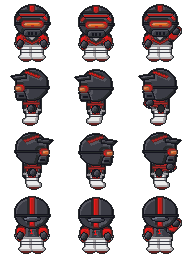
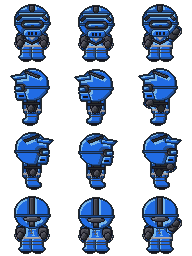
Truck arrow after buying it, Neal in blue and black, and the HUD buttons in a row along the bottom
Boss (28 Oct 2026):
- After buying the van the markers point to it until the rider gets in, then on to the house and
  the spares chest (story.json markVan).
- Neal Gizard's kit is blue with black, on his map sprite and as his race kit (riders.json kit).
- The world screen's buttons are smaller and in one row along the bottom right, clear of east
  exits on phones. The camera can run a button row's height past a map's bottom edge, so a
  south exit is never under them.

Claude-Session: https://claude.ai/code/session_01NrCmSYmMqQM4A6rXkzAnwk

Changed region(s): [[0.7188, 0.0, 0.9375, 1.0], [0.0625, 0.0, 0.2812, 1.0], [0.375, 0.0, 0.625, 1.0]]

diff --git a/src/scenes/WorldScene.ts b/src/scenes/WorldScene.ts
@@ -1,5 +1,5 @@
 import Phaser from 'phaser';
-import { advanceStory, bikeProblem, fillText, formatMoney, jobPay, matchStory, pence, type JobDef, type StoryEvent, type StoryStep } from '../core/career';
+import { advanceStory, bikeProblem, currentStep, fillText, formatMoney, jobPay, matchStory, pence, type JobDef, type StoryEvent, type StoryStep } from '../core/career';
 import { npcsOnMap, type DialogueLine, type NpcDef, type NpcPlacement } from '../core/content';
 import { Grid, STEPS } from '../core/grid';
 import { objectTiles, type BakedMap, type Facing, type MapObject, type Tile } from '../core/mapTypes';
@@ -25,7 +25,7 @@ import { Character, TILE } from '../world/Character';
 import { MapView, OVERHEAD_DEPTH, isMapCached, loadMapImages } from '../world/MapView';
 import { actionMessage, actionName } from '../world/messages';
 import { Waymarks, clusters, middle, type Mark } from '../world/Waymarks';
-import { DPR } from '../ui/view';
+import { DPR, HUD_BAR } from '../ui/view';
 import { standLift } from '../world/standLift';
 import { VanView, type Driver } from '../world/VanView';
 import type { HudScene } from './HudScene';
@@ -287,9 +287,12 @@ export class WorldScene extends Phaser.Scene {
     const mh = this.map.height * TILE;
     const vw = width / zoom;
     const vh = height / zoom;
+    // Past the bottom edge, room for the HUD's button row: dark runoff the camera can show as the
+    // rider heads south, so a south exit is never under the buttons (Boss, 28 Oct 2026).
+    const run = (HUD_BAR * DPR) / zoom;
     const bx = mw < vw ? (mw - vw) / 2 : 0;
-    const by = mh < vh ? (mh - vh) / 2 : 0;
-    cam.setBounds(bx, by, Math.max(mw, vw), Math.max(mh, vh));
+    const by = mh + run < vh ? (mh + run - vh) / 2 : 0;
+    cam.setBounds(bx, by, Math.max(mw, vw), Math.max(mh + run, vh));
   }
 
   // ---- clicks and interaction ----
@@ -607,7 +610,7 @@ export class WorldScene extends Phaser.Scene {
     this.markPoint = null;
     const career = this.save.career;
     this.markEarning = earning(services.content, career);
-    const goals = storyGoals(services.content, services.maps, career);
+    const goals = storyGoals(services.content, services.maps, career, this.save.flags, this.save.van ?? null);
     if (!goals.length) return;
     const ts = this.map.tileSize;
     const nearest = <P extends { x: number; y: number }>(points: P[]) => {
@@ -617,9 +620,15 @@ export class WorldScene extends Phaser.Scene {
     const marks: Mark[] = [];
     const points: { x: number; y: number; label: string; sub?: string }[] = [];
     const here = goals.filter((g) => g.map === this.map.id);
+    const nameOf = (goal: (typeof goals)[number]) => (goal.kind === 'npc' ? goal.name : goal.kind === 'van' ? (this.van?.design.name ?? 'Your van') : actionName(goal.action));
     for (const goal of here) {
-      const what = goal.kind === 'npc' ? goal.name : actionName(goal.action);
-      if (goal.kind === 'npc') {
+      const what = nameOf(goal);
+      if (goal.kind === 'van') {
+        if (!this.van) continue;
+        const tiles = footprint(this.van.pose, this.van.design.length);
+        marks.push({ kind: 'object', tiles });
+        points.push({ ...middle(tiles), label: what });
+      } else if (goal.kind === 'npc') {
         const n = this.npcs.find((c) => c.placement.npc.id === goal.npc);
         if (!n) continue;
         const { x, y } = n.character.sprite;
@@ -636,7 +645,7 @@ export class WorldScene extends Phaser.Scene {
       // 2026: one road to the Industrial Zone, then both work buildings' doors).
       const seen = new Set<MapObject>();
       for (const goal of goals) {
-        const what = goal.kind === 'npc' ? goal.name : actionName(goal.action);
+        const what = nameOf(goal);
         const hop = nextHop(services.maps, services.content.world, services.travel, this.save.flags, this.map.id, goal.map);
         if (!hop || hop.via.every((o) => seen.has(o))) continue;
         for (const o of hop.via) seen.add(o);
@@ -683,9 +692,9 @@ export class WorldScene extends Phaser.Scene {
     const dx = p.x - v.centerX;
     const dy = p.y - v.centerY;
     const left = 56;
-    const right = w - 120;
+    const right = w - 56;
     const top = 150;
-    const bottom = h - 64;
+    const bottom = h - HUD_BAR - 40;
     const cx = w / 2;
     const cy = h / 2;
     const tx = dx > 0 ? (right - cx) / dx : dx < 0 ? (left - cx) / dx : Infinity;
@@ -1132,6 +1141,11 @@ export class WorldScene extends Phaser.Scene {
     this.save.driving = true;
     this.player.stopWalking();
     this.sitInVan();
+    const step = currentStep(services.content.story, this.save.career);
+    if (step?.markVan && !this.save.flags[step.markVan]) {
+      this.save.flags[step.markVan] = true;
+      this.refreshWaymarks();
+    }
     this.quickSave();
   }
 

diff --git a/src/scenes/HudScene.ts b/src/scenes/HudScene.ts
@@ -28,7 +28,7 @@ import { COLORS, hex, textStyle } from '../ui/theme';
 import { ZOOM_MAX, ZOOM_MIN, ZOOM_STEP } from '../core/settings';
 import { button, panel, slider, statBar } from '../ui/widgets';
 import type { WorldScene } from './WorldScene';
-import { cssSize, view } from '../ui/view';
+import { HUD_BAR, cssSize, view } from '../ui/view';
 import { worldMapTexture, type WorldMapData, type WorldMapZone } from '../core/worldMap';
 
 // Screen-space layer over the world: map name, money and task, messages, the dialogue box, the
@@ -178,25 +178,31 @@ export class HudScene extends Phaser.Scene {
   private layout(): void {
     const { width, height } = view(this);
     for (const b of this.uiButtons) b.destroy();
+    // One row of small buttons along the bottom right (Boss, 28 Oct 2026: the column down the
+    // right side was in the way of east exits on phones), laid out from the right edge in.
+    const y = height - HUD_BAR / 2;
+    const bh = HUD_BAR - 14;
+    const fs = 16;
+    let right = width - 8;
+    const add = (label: string, w: number, onClick: () => void) => {
+      const b = button(this, right - w / 2, y, label, onClick, w, bh, fs);
+      right -= w + 6;
+      return b;
+    };
+    const free = (f: () => void) => () => !this.modal && !this.dialogue && f();
+    this.uiButtons = [add('☰', 42, () => this.world.openPause())];
     // The zoom control is a Zoom button with a pop-out slider, or + and − buttons (Settings > Display).
-    const zoom = services.settings.get().display.zoomControl === 'buttons'
-      ? [
-        button(this, width - 86, 92, '−', () => this.world.zoomBy(-ZOOM_STEP), 48, 48),
-        button(this, width - 34, 92, '+', () => this.world.zoomBy(ZOOM_STEP), 48, 48),
-      ]
-      : [button(this, width - 50, 92, 'Zoom', () => (this.zoomPop ? this.closeZoom() : this.openZoom()), 80, 48)];
-    this.uiButtons = [
-      button(this, width - 34, 34, '☰', () => this.world.openPause(), 48, 48),
-      ...zoom,
-      button(this, width - 50, 150, 'Bike', () => !this.modal && !this.dialogue && this.openPanel('bike'), 80, 48),
-      ...(services.content.world.worldMap ? [button(this, width - 50, 208, 'Map', () => !this.modal && !this.dialogue && this.world.openWorldMap(), 80, 48)] : []),
-      ...(this.driving ? [button(this, width - 60, 266, 'Get out', () => !this.modal && !this.dialogue && this.world.getOut(), 100, 48)] : []),
-    ];
+    if (services.settings.get().display.zoomControl === 'buttons') {
+      this.uiButtons.push(add('+', 38, () => this.world.zoomBy(ZOOM_STEP)), add('−', 38, () => this.world.zoomBy(-ZOOM_STEP)));
+    } else this.uiButtons.push(add('Zoom', 62, () => (this.zoomPop ? this.closeZoom() : this.openZoom())));
+    this.uiButtons.push(add('Bike', 56, free(() => this.openPanel('bike'))));
+    if (services.content.world.worldMap) this.uiButtons.push(add('Map', 52, free(() => this.world.openWorldMap())));
+    if (this.driving) this.uiButtons.push(add('Get out', 78, free(() => this.world.getOut())));
     if (this.zoomPop) this.openZoom();
     this.saveText.setPosition(width - 70, 18);
     this.shiftText.setPosition(width / 2, 14);
     this.taskText.setWordWrapWidth(Math.min(520, width - 140));
-    this.toastText.setPosition(width / 2, height - 60);
+    this.toastText.setPosition(width / 2, height - HUD_BAR - 30);
     this.toastText.setWordWrapWidth(Math.min(700, width - 60));
     this.fitToast();
   }
@@ -204,9 +210,10 @@ export class HudScene extends Phaser.Scene {
   /** A draggable zoom slider beside the Zoom button. Mouse wheel and + and - still zoom too. */
   private openZoom(): void {
     this.zoomPop?.destroy();
-    const { width } = view(this);
+    const { width, height } = view(this);
     const w = 300;
-    const c = this.add.container(width - 100 - w / 2, 92);
+    // Just above the button row, at the right.
+    const c = this.add.container(width - 8 - w / 2, height - HUD_BAR - 34);
     c.add(panel(this, 0, 0, w, 56).setInteractive());
     c.add(this.add.text(-w / 2 + 14, 0, 'Zoom', textStyle(this.ts(16))).setOrigin(0, 0.5));
     this.zoomPop = c;

diff --git a/src/core/waymarks.ts b/src/core/waymarks.ts
@@ -13,7 +13,8 @@ import type { Travel } from './travel';
 /** What the current story step wants the player to reach, and the map it is on. */
 export type Goal =
   | { kind: 'npc'; map: string; npc: string; name: string }
-  | { kind: 'object'; map: string; action: string };
+  | { kind: 'object'; map: string; action: string }
+  | { kind: 'van'; map: string };
 
 /** The first door or exit on the way to another map: every object with that name leading there. */
 export interface Hop {
@@ -34,11 +35,14 @@ function npcMap(content: Content, maps: Map<string, BakedMap>, id: string): stri
 /**
  * Everything to mark for the current step: its NPC or equipment, or while the rider is short of
  * the step's money, the places to earn it (Boss, 28 Oct 2026: the shift benches at the
- * fabrication shop and engine rebuilder until there's £600 for the van). Empty once the opening
+ * fabrication shop and engine rebuilder until there's £600 for the van), or on a markVan step
+ * until the rider has got in, the van. Empty once the opening
  * chain is over.
  */
-export function storyGoals(content: Content, maps: Map<string, BakedMap>, career: CareerState): Goal[] {
+export function storyGoals(content: Content, maps: Map<string, BakedMap>, career: CareerState, flags: Record<string, boolean> = {}, van: { map: string } | null = null): Goal[] {
   const step = currentStep(content.story, career);
+  // Just bought: first to the van to get in, then on with the step (Boss, 28 Oct 2026).
+  if (step?.markVan && !flags[step.markVan] && van && maps.has(van.map)) return [{ kind: 'van', map: van.map }];
   if (step?.earn && career.money < pence(step.needs?.money ?? 0)) {
     return step.earn.maps.filter((m) => maps.has(m)).map((map) => ({ kind: 'object', map, action: step.earn!.use }));
   }
@@ -53,7 +57,7 @@ export function earning(content: Content, career: CareerState): boolean {
 }
 
 /** The current step's NPC or equipment, or null once the opening chain is over. */
-export function storyGoal(content: Content, maps: Map<string, BakedMap>, career: CareerState): Goal | null {
+export function storyGoal(content: Content, maps: Map<string, BakedMap>, career: CareerState): Exclude<Goal, { kind: 'van' }> | null {
   const step = currentStep(content.story, career);
   if (!step) return null;
   if (step.on.talk) {

diff --git a/src/scenes/RaceScene.ts b/src/scenes/RaceScene.ts
@@ -14,7 +14,7 @@ import { directorFor, ROW_SIZE, type RaceDirector } from '../core/riderAI';
 import { startGeom } from '../core/trackGeom';
 import { RaceView } from '../world/RaceView';
 import { view } from '../ui/view';
-import { CPU_GEAR, GEAR_SETS, gearColour, type RaceLook } from '../world/raceBike';
+import { gearColour, kitFor, type RaceLook } from '../world/raceBike';
 
 // Race day and practice: gate pick, the live race screen with its pit board, auto-complete,
 // moto and day results, and practice laps. The simulation does the racing; this screen only
@@ -154,7 +154,7 @@ export class RaceScene extends Phaser.Scene {
   private setupField(): void {
     this.day!.field.forEach((e, i) => {
       this.names.set(e.id, e.player ? 'You' : e.name);
-      const gear = GEAR_SETS[e.player ? 'player-default' : e.tag?.endsWith('Champion') ? 'cpu-champion' : CPU_GEAR[i % CPU_GEAR.length]];
+      const gear = kitFor(e, i);
       this.looks.set(e.id, { brand: e.bike.brand, cls: e.bike.class, gear });
       this.colors.set(e.id, e.player ? COLORS.accent : gearColour(gear));
     });
@@ -1298,7 +1298,7 @@ export class RaceScene extends Phaser.Scene {
     // You, and any riders already out on track (practiceRiders on the venue).
     this.sim.riders.forEach(({ e }, i) => {
       this.names.set(e.id, e.player ? 'You' : e.name);
-      const gear = GEAR_SETS[e.player ? 'player-default' : e.tag?.endsWith('Champion') ? 'cpu-champion' : CPU_GEAR[i % CPU_GEAR.length]];
+      const gear = kitFor(e, i);
       this.looks.set(e.id, { brand: e.bike.brand, cls: e.bike.class, gear });
       this.colors.set(e.id, e.player ? COLORS.accent : gearColour(gear));
     });

diff --git a/src/core/raceDay.ts b/src/core/raceDay.ts
@@ -19,6 +19,8 @@ export interface CpuRiderDef {
   bike: { brand: string; grade: number; condition: number };
   tactic: Tactic;
   style?: RiderStyle;
+  /** Their own race kit, a gear set on the race screen (Neal Gizard's blue and black); left out, the field's kits in turn. */
+  kit?: string;
 }
 
 export interface RidersData {
@@ -108,7 +110,7 @@ export function cpuEntrant(rc: RaceContent, def: CpuRiderDef, cls: string, gate 
   const skills: Record<string, number> = {};
   for (const lead of rc.skills.leads) for (const c of lead.children) skills[c.id] = lead.id === 'rider' ? def.level : 1;
   Object.assign(skills, def.skills);
-  return { id: def.id, name: def.name, tag: def.tag, player: false, skills, bike: cpuBike(rc.bikes, def, cls), tactic: def.tactic, gate, ...(def.style ? { style: def.style } : {}) };
+  return { id: def.id, name: def.name, tag: def.tag, player: false, skills, bike: cpuBike(rc.bikes, def, cls), tactic: def.tactic, gate, ...(def.style ? { style: def.style } : {}), ...(def.kit ? { kit: def.kit } : {}) };
 }
 
 export function playerEntrant(rc: RaceContent, career: CareerState, name: string, gate = 0): Entrant {

diff --git a/src/core/content.ts b/src/core/content.ts
@@ -207,7 +207,7 @@ export const STORY_SCHEMA: Schema = {
       minItems: 1,
       items: {
         type: 'object',
-        optional: ['times', 'needs', 'notReady', 'earn', 'confirm', 'lines', 'effects', 'toast'],
+        optional: ['times', 'needs', 'notReady', 'earn', 'markVan', 'confirm', 'lines', 'effects', 'toast'],
         fields: {
           id: { type: 'string', pattern: ID },
           journal: { type: 'string', nonEmpty: true },
@@ -215,6 +215,7 @@ export const STORY_SCHEMA: Schema = {
           times: { type: 'number', integer: true, min: 1 },
           needs: { type: 'object', optional: ['money', 'items'], fields: { money: { type: 'number', min: 0 }, items: IDS } },
           notReady: { type: 'string', pattern: ID },
+          markVan: { type: 'string', pattern: ID },
           earn: { type: 'object', fields: { use: { type: 'string', pattern: ID }, maps: { type: 'array', minItems: 1, items: { type: 'string', pattern: ID } } } },
           confirm: { type: 'string', nonEmpty: true },
           lines: { type: 'string', pattern: ID },

diff --git a/src/world/raceBike.ts b/src/world/raceBike.ts
@@ -82,7 +82,16 @@ export const GEAR_SETS: Record<string, Gear> = {
   'cpu-camo': gear('black', 'white', 'white', 'camo', 'camo', 'camo'),
   'cpu-black': gear('black', 'orange', 'black', 'black', 'black', 'black'),
   'cpu-champion': gear('hivis', 'hivis', 'hivis', 'black', 'black', 'black'),
+  // Neal Gizard, the pro: blue with black (Boss, 28 Oct 2026).
+  'cpu-neal': gear('blue', 'black', 'blue', 'black', 'blue', 'black'),
 };
+
+/** A rider's race kit: the player's, a rider's own, the champions' hi-vis, or the field's kits in turn. */
+export function kitFor(e: { player?: boolean; tag?: string; kit?: string }, i: number): Gear {
+  if (e.player) return GEAR_SETS['player-default'];
+  if (e.kit && GEAR_SETS[e.kit]) return GEAR_SETS[e.kit];
+  return GEAR_SETS[e.tag?.endsWith('Champion') ? 'cpu-champion' : CPU_GEAR[i % CPU_GEAR.length]];
+}
 
 /** CPU kits in the order the field is dressed. The Local Champion wears hi-vis. */
 export const CPU_GEAR = ['cpu-red', 'cpu-blue', 'cpu-pink', 'cpu-camo', 'cpu-black', 'cpu-hivis'];

diff --git a/tests/waymarks.test.ts b/tests/waymarks.test.ts
@@ -73,6 +73,14 @@ describe('tutorial markers (Boss, 28 Oct 2026)', () => {
     expect(storyGoals(content, maps, c)).toEqual([{ kind: 'npc', map: storyGoal(content, maps, c)!.map, npc: 'npc.van_seller', name: expect.any(String) }]);
   });
 
+  it('points to the new van until the rider gets in, then on to the spares chest (Boss, 28 Oct 2026)', () => {
+    const c = newCareerState(content.bikes, content.story, 'hondmoto', () => 0.5);
+    c.story = { step: content.story.steps.findIndex((s) => s.id === 'load_van'), used: [] };
+    const van = { map: content.vehicles.starter.map };
+    expect(storyGoals(content, maps, c, {}, van)).toEqual([{ kind: 'van', map: 'area1-home-town' }]);
+    expect(storyGoals(content, maps, c, { van_driven: true }, van)).toEqual([{ kind: 'object', map: 'int-home-rented-room', action: 'storage.parts' }]);
+  });
+
   it('marks only the stands still to do on a step that needs two', () => {
     const map = maps.get('int-home-local-garage')!;
     const both = goalObjects(map, 'workshop.bike', []);

diff --git a/src/ui/widgets.ts b/src/ui/widgets.ts
@@ -10,9 +10,9 @@ export interface Button extends Phaser.GameObjects.Container {
   setSelected(on: boolean): Button;
 }
 
-export function button(scene: Phaser.Scene, x: number, y: number, label: string, onClick: () => void, width = 260, height = 44): Button {
+export function button(scene: Phaser.Scene, x: number, y: number, label: string, onClick: () => void, width = 260, height = 44, fontSize = 20): Button {
   const bg = scene.add.rectangle(0, 0, width, height, COLORS.panel).setStrokeStyle(2, COLORS.inkLine);
-  const text = scene.add.text(0, 0, label, textStyle(20)).setOrigin(0.5);
+  const text = scene.add.text(0, 0, label, textStyle(fontSize)).setOrigin(0.5);
   const c = scene.add.container(x, y, [bg, text]) as Button;
   let enabled = true;
   let selected = false;

diff --git a/src/ui/view.ts b/src/ui/view.ts
@@ -17,3 +17,10 @@ export function view(scene: Phaser.Scene): { width: number; height: number } {
 export function cssSize(scene: Phaser.Scene): { width: number; height: number } {
   return { width: scene.scale.width / DPR, height: scene.scale.height / DPR };
 }
+
+/**
+ * The height of the HUD's button row along the bottom of the world screen, in CSS pixels (Boss,
+ * 28 Oct 2026). The world lets the camera run this far past a map's bottom edge, so a south exit
+ * is never stuck under the buttons.
+ */
+export const HUD_BAR = 52;

diff --git a/src/core/raceContent.ts b/src/core/raceContent.ts
@@ -220,11 +220,12 @@ export const RIDERS_SCHEMA: Schema = {
       type: 'array',
       items: {
         type: 'object',
-        optional: ['tag', 'skills', 'style'],
+        optional: ['tag', 'skills', 'style', 'kit'],
         fields: {
           id: IDS,
           name: S,
           tag: S,
+          kit: S,
           areas: { type: 'array', items: { type: 'number', integer: true, min: 1, max: 8 } },
           level: LEVEL,
           skills: { type: 'record', values: LEVEL },

diff --git a/src/core/career.ts b/src/core/career.ts
@@ -65,6 +65,8 @@ export interface StoryStep {
   notReady?: string;
   /** While the rider is short of needs.money, the tutorial markers point here to earn it (Boss, 28 Oct 2026). */
   earn?: { use: string; maps: string[] };
+  /** Until this flag is set (on first getting in), the tutorial markers point to the van (Boss, 28 Oct 2026). */
+  markVan?: string;
   confirm?: string;
   lines?: string;
   effects?: StoryEffects;
